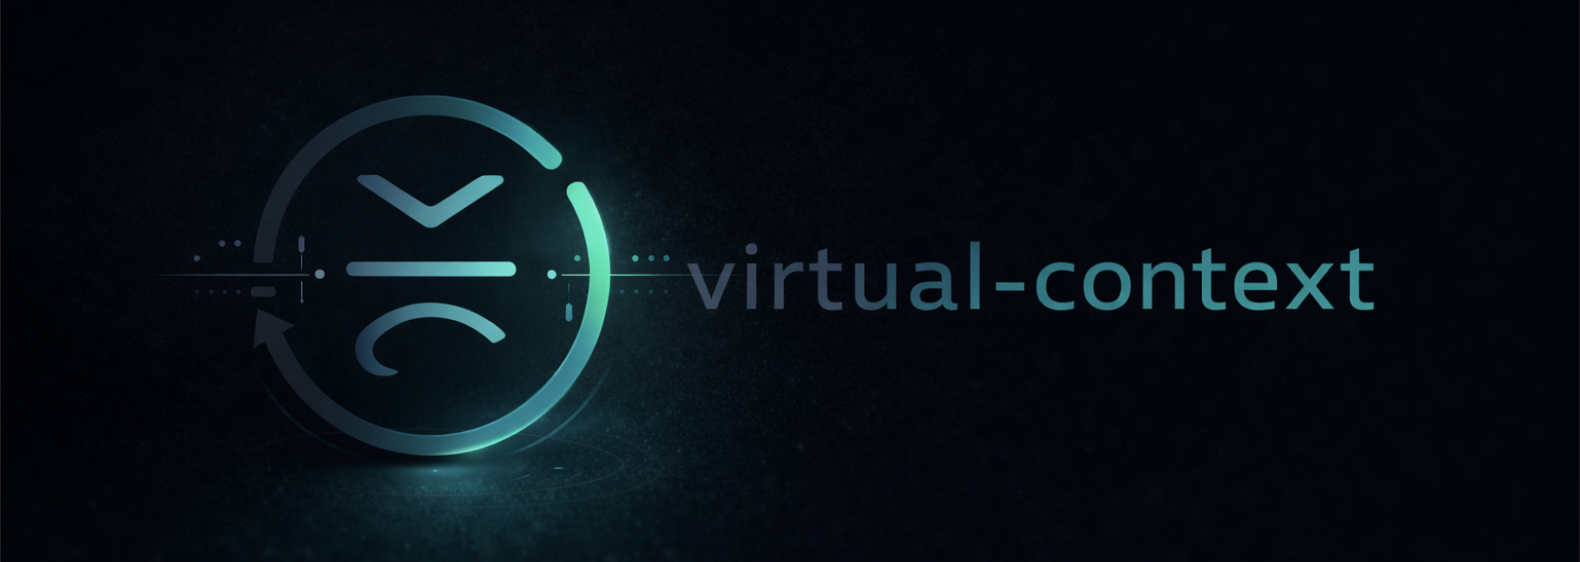
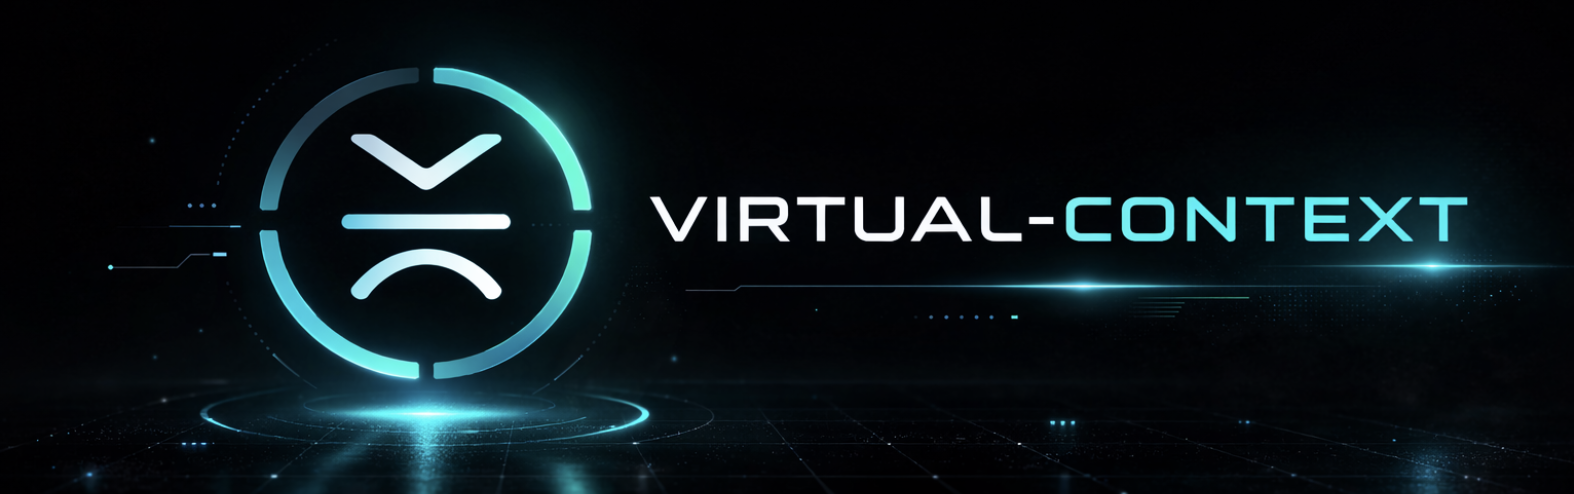
Update hero image and regression map

diff --git a/tests/REGRESSION_MAP.md b/tests/REGRESSION_MAP.md
@@ -198,6 +198,27 @@ Use `pytest -m regression` to run all regression tests.
 - **Tests**:
   - `test_tag_splitter.py::TestEngineTagSplitting::test_collect_turn_text_with_preamble_messages`
 
+### BUG-014 — Broad query + FULL-depth working set = incomplete overview
+
+- **Symptom**: Broad queries ("summarize everything") only show 1-2 expanded topics when those tags are at FULL depth in paging working set, missing 15+ other topic summaries
+- **Root cause**: Paging depth override consumes the tag budget before broad overview summaries can render; assembler's budget check terminates early
+- **Fix**: TBD — flatten working set to SUMMARY depth on broad queries
+- **Tests**: None yet (open)
+
+### BUG-015 — Temporal chronological ordering lost by paging depth override
+
+- **Symptom**: Temporal queries ("what did we first discuss?") lose time ordering when tags are at FULL depth in paging working set
+- **Root cause**: Assembler overrides temporal retriever's chronologically-sorted summaries with unordered full_segments from working set
+- **Fix**: TBD — skip working set depth override for temporal result tags
+- **Tests**: None yet (open)
+
+### BUG-016 — Working set segment loading runs unconditionally on every inbound
+
+- **Symptom**: Full segment DB reads for all FULL-depth working set tags happen on every inbound, even when retriever chose broad/temporal path where segments won't be used
+- **Root cause**: Paging segment loading block doesn't check retrieval_result.broad/temporal
+- **Fix**: TBD — gate segment loading on retrieval branch
+- **Tests**: None yet (open)
+
 ---
 
 ## By Test File
